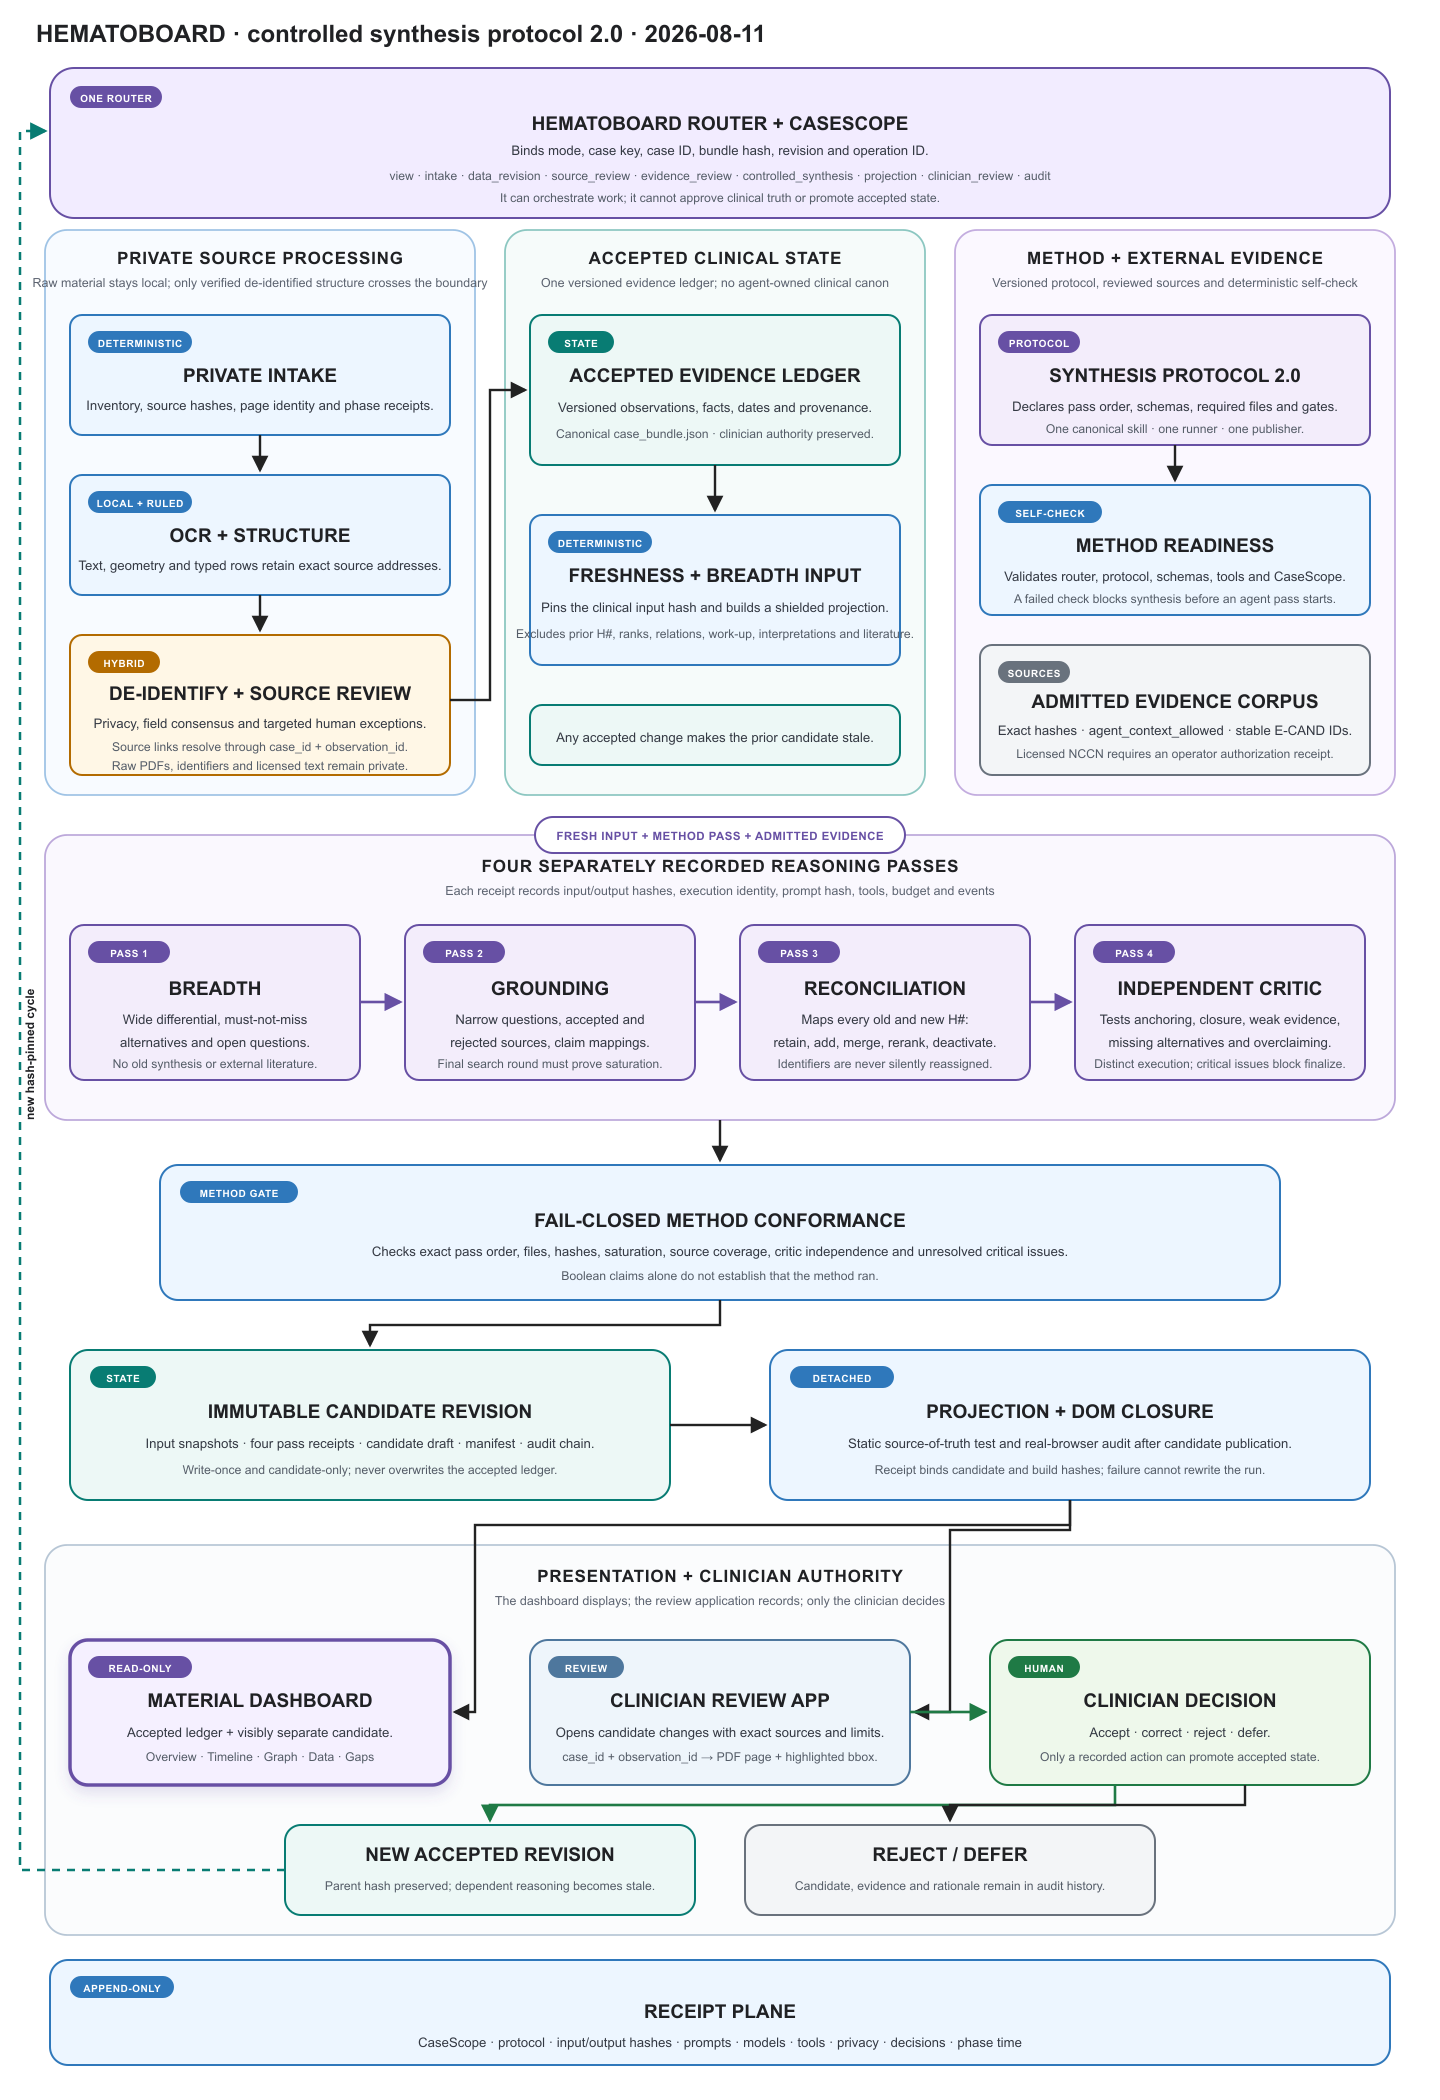
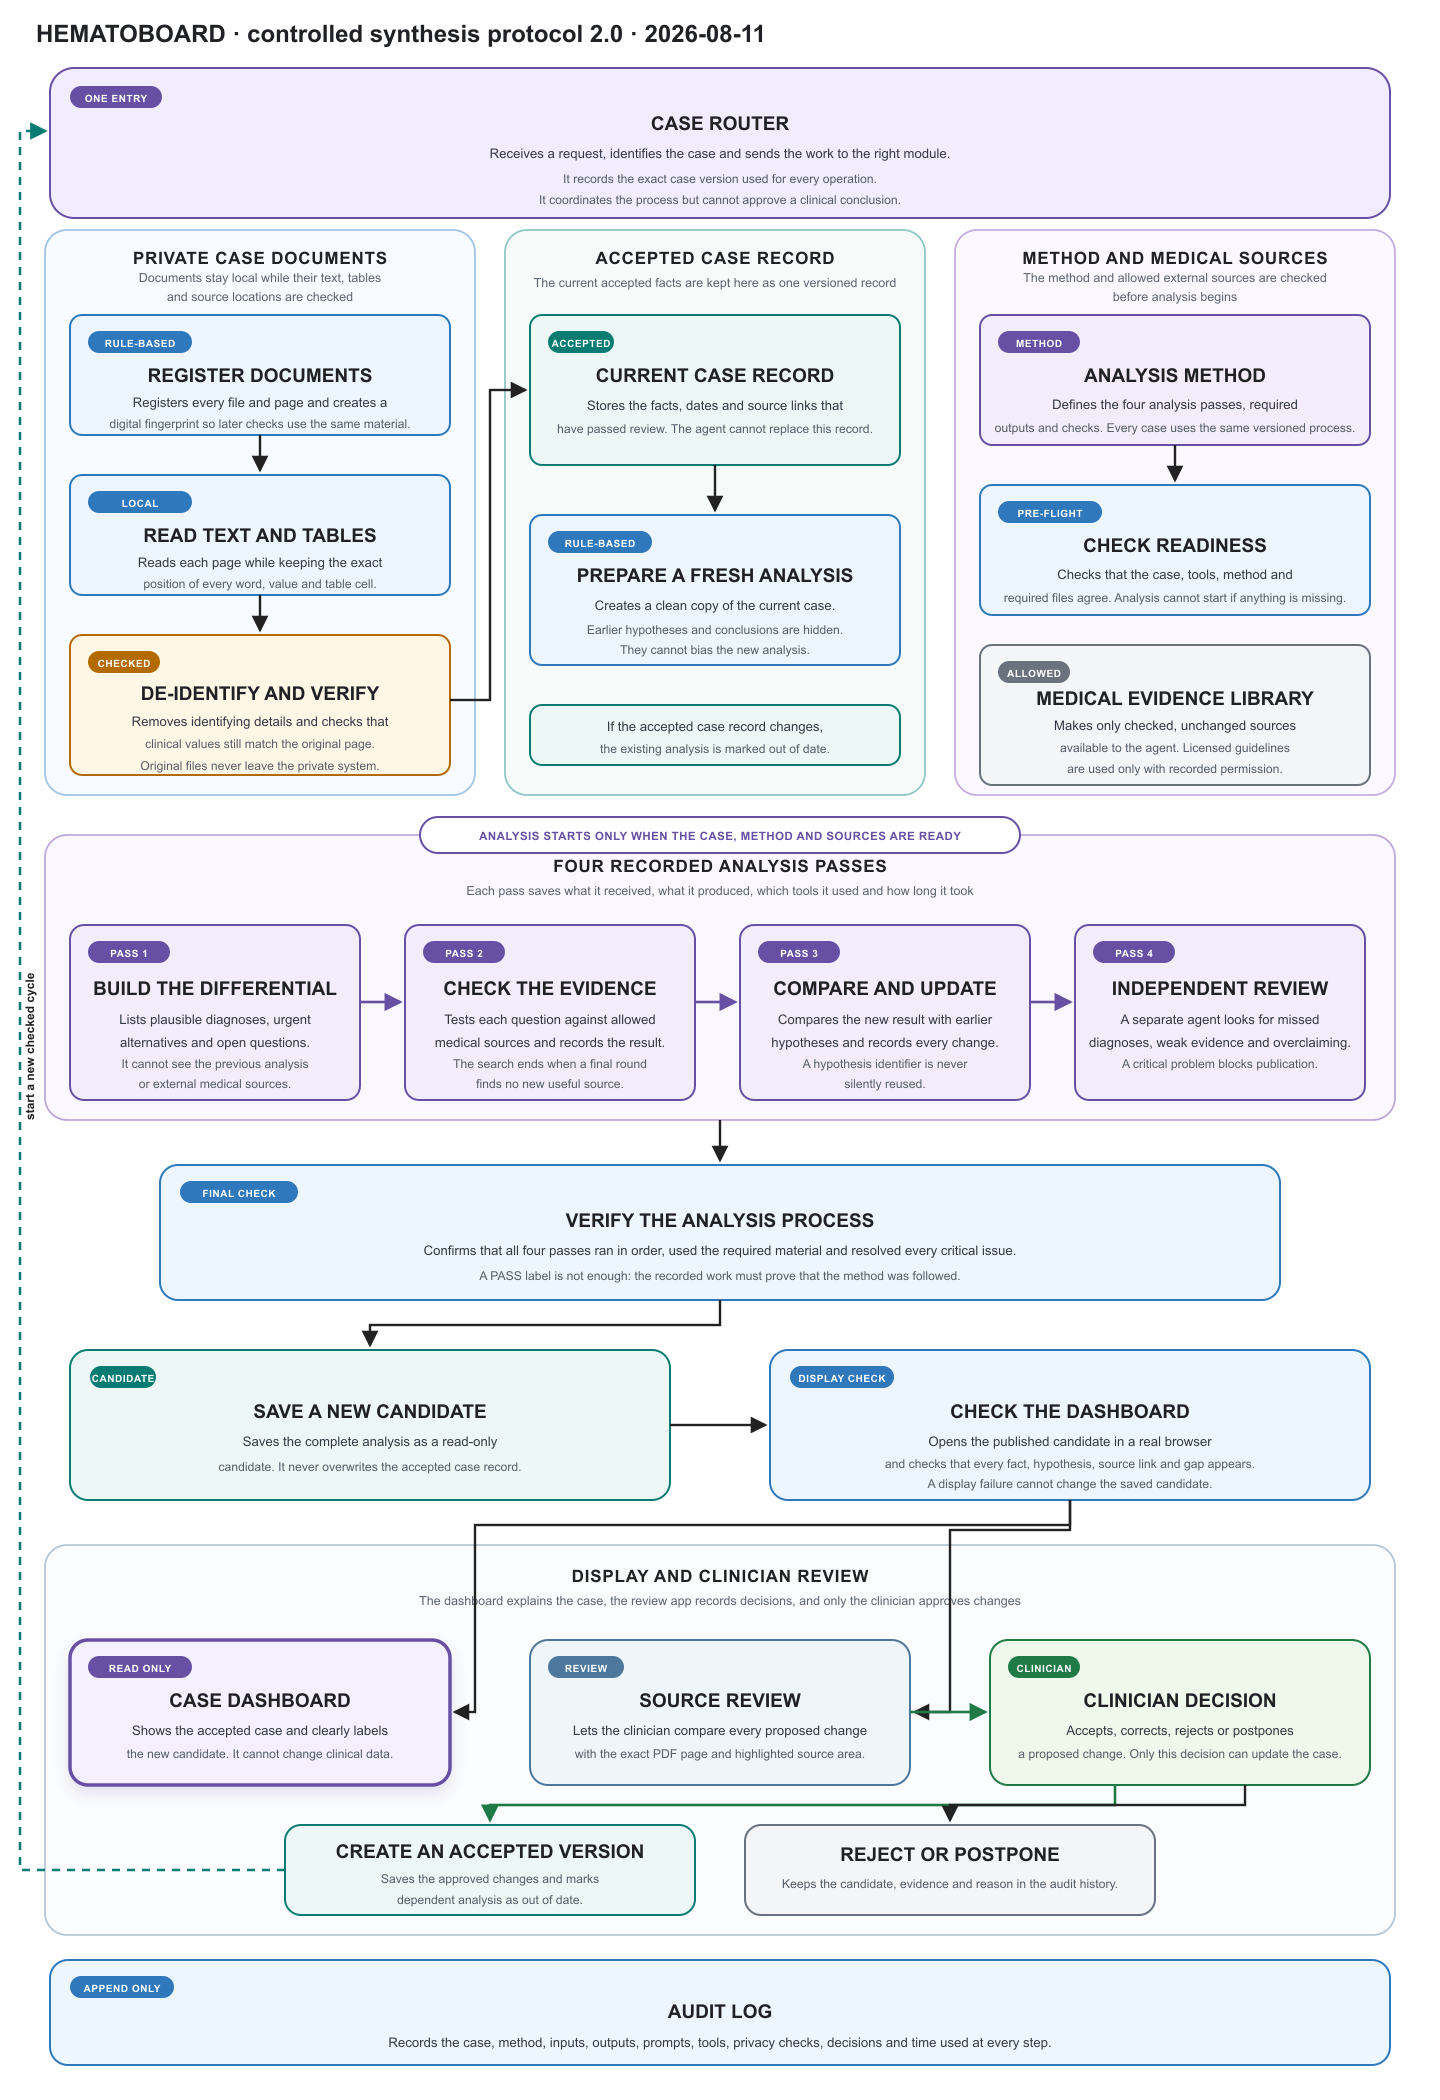
Rewrite architecture diagram in plain language

diff --git a/README.md b/README.md
@@ -40,7 +40,7 @@ clinical revision.
 
 <p align="center">
   <a href="diagrams/hematoboard-trace-system.svg">
-    <img src="diagrams/hematoboard-trace-system.png" width="900" alt="HematoBoard protocol 2.0 architecture: one router and CaseScope, private intake, accepted ledger, four controlled synthesis passes, method self-check, immutable candidate, detached projection and clinician-only promotion">
+    <img src="diagrams/hematoboard-trace-system.png" width="900" alt="HematoBoard workflow: private document checks, one accepted case record, four recorded analysis passes, dashboard verification and clinician-only approval">
   </a>
   <br>
   <sub><strong>Figure 1.</strong> HematoBoard controlled architecture under synthesis protocol 2.0. One router resolves the CaseScope and allowed mode. Four separately hashed reasoning passes precede a fail-closed method check and immutable candidate. Projection is verified in a detached step; the Material dashboard remains read-only, and only a recorded clinician decision can create a new accepted revision.</sub>
